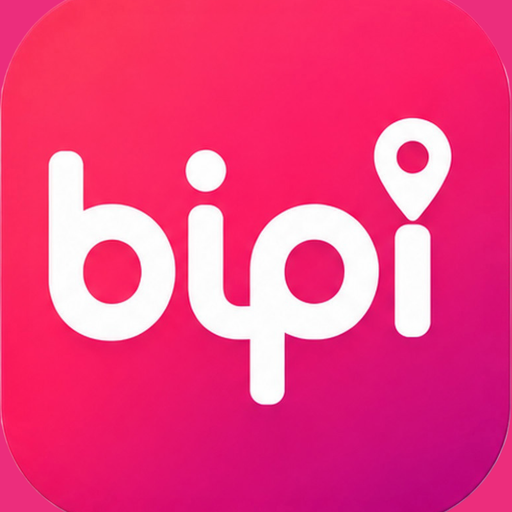
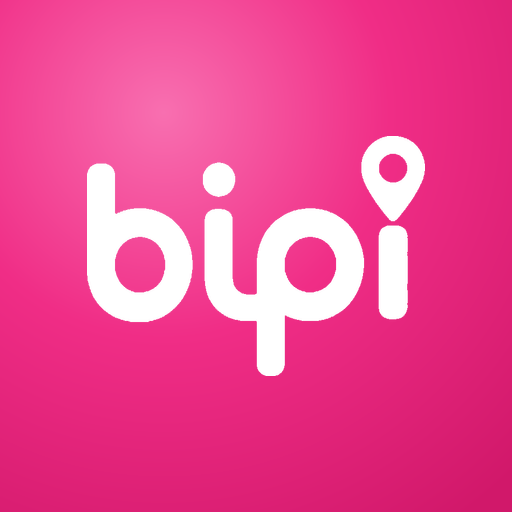
fix(bipi): registro 500 (email duplicado) + email/fecha/sexo obligatorios + icono con margen
- verify-otp: causaba P2002 al crear con un email ya existente. Ahora:
  busca por teléfono → si no, por email (fusiona añadiendo teléfono a la
  cuenta previa) → si no, crea. Maneja P2002 con mensaje claro.
- email, birthDate (AAAA-MM-DD) y gender pasan a OBLIGATORIOS (schema +
  validación + UI web y móvil).
- Icono: el wordmark llegaba al borde y la máscara de Android lo cortaba.
  Extraído el wordmark blanco y recompuesto con margen seguro sobre el
  degradado rosa (icon, adaptive, web 192/512, maskable).

diff --git a/agencia-platform/app/api/bipi/customer/verify-otp/route.ts b/agencia-platform/app/api/bipi/customer/verify-otp/route.ts
@@ -1,10 +1,13 @@
 /**
  * POST /api/bipi/customer/verify-otp
- *   { phone, code, name?, email?, firstBusinessId? }
+ *   { phone, code, name, email, birthDate, gender, firstBusinessId? }
  *
  * Comprueba el código SMS (Twilio Verify). Si es correcto, crea o
- * recupera el cliente (identidad = teléfono verificado) y devuelve la
- * sesión. Este es el alta REAL: sin código válido no se crea cuenta.
+ * recupera el cliente. Identidad principal = teléfono verificado, pero
+ * si el email ya existía (de altas previas) se FUSIONA en esa cuenta en
+ * vez de fallar por email duplicado.
+ *
+ * email, birthDate y gender son OBLIGATORIOS.
  */
 
 import { NextResponse } from "next/server";
@@ -17,15 +20,24 @@ export const dynamic = "force-dynamic";
 const schema = z.object({
   phone: z.string().min(6).max(40),
   code: z.string().min(4).max(10),
-  name: z.string().max(80).optional(),
-  email: z.string().email().optional().or(z.literal("")),
+  name: z.string().min(1).max(80),
+  email: z.string().email(),
+  birthDate: z.string().regex(/^\d{4}-\d{2}-\d{2}$/, "Fecha inválida"),
+  gender: z.enum(["female", "male", "other", "prefer_not"]),
   firstBusinessId: z.string().optional()
 });
+
+function sessionFrom(c: { id: string; name: string | null; totalSaved: number; totalPurchases: number }, reused: boolean, status = 200) {
+  return NextResponse.json(
+    { ok: true, reused, customerId: c.id, name: c.name, totalSaved: c.totalSaved, totalPurchases: c.totalPurchases },
+    { status }
+  );
+}
 
 export async function POST(req: Request) {
   const parsed = schema.safeParse(await req.json().catch(() => null));
   if (!parsed.success) {
-    return NextResponse.json({ error: { code: "validation", message: "Datos inválidos" } }, { status: 400 });
+    return NextResponse.json({ error: { code: "validation", message: parsed.error.issues[0]?.message ?? "Datos inválidos" } }, { status: 400 });
   }
   const d = parsed.data;
   const phone = toE164(d.phone);
@@ -35,59 +47,48 @@ export async function POST(req: Request) {
 
   const check = await checkVerification(phone, d.code);
   if (!check.configured) {
-    return NextResponse.json(
-      { error: { code: "sms_not_configured", message: "La verificación por SMS aún no está activada en el servidor." } },
-      { status: 503 }
-    );
+    return NextResponse.json({ error: { code: "sms_not_configured", message: "La verificación por SMS aún no está activada en el servidor." } }, { status: 503 });
   }
   if (!check.approved) {
-    return NextResponse.json(
-      { error: { code: "bad_code", message: "Código incorrecto o caducado. Pide uno nuevo." } },
-      { status: 401 }
-    );
+    return NextResponse.json({ error: { code: "bad_code", message: "Código incorrecto o caducado. Pide uno nuevo." } }, { status: 401 });
   }
 
-  const email = d.email ? d.email : undefined;
+  const profile = { name: d.name, email: d.email, birthDate: d.birthDate, gender: d.gender };
 
-  // ¿Ya existe por teléfono? -> login. Si no, crear.
-  const existing = await prisma.bipiCustomer.findUnique({ where: { phone } });
-  if (existing) {
-    const updated = await prisma.bipiCustomer.update({
-      where: { id: existing.id },
-      data: {
-        phoneVerified: true,
-        name: d.name ?? existing.name,
-        email: email ?? existing.email ?? undefined
+  // 1) ¿Existe ya por teléfono? -> login/actualización.
+  const byPhone = await prisma.bipiCustomer.findUnique({ where: { phone } });
+  if (byPhone) {
+    try {
+      const updated = await prisma.bipiCustomer.update({ where: { id: byPhone.id }, data: { phoneVerified: true, ...profile } });
+      return sessionFrom(updated, true);
+    } catch (e: any) {
+      if (e?.code === "P2002") {
+        return NextResponse.json({ error: { code: "email_taken", message: "Ese email ya está en uso por otra cuenta." } }, { status: 409 });
       }
-    });
-    return NextResponse.json({
-      ok: true,
-      reused: true,
-      customerId: updated.id,
-      name: updated.name,
-      totalSaved: updated.totalSaved,
-      totalPurchases: updated.totalPurchases
-    });
+      throw e;
+    }
   }
 
-  const customer = await prisma.bipiCustomer.create({
-    data: {
-      phone,
-      phoneVerified: true,
-      name: d.name,
-      email,
-      firstBusinessId: d.firstBusinessId ?? null
+  // 2) ¿Existe por email (alta previa sin teléfono)? -> fusionar: añadir teléfono.
+  const byEmail = await prisma.bipiCustomer.findUnique({ where: { email: d.email } });
+  if (byEmail) {
+    if (byEmail.phone && byEmail.phone !== phone) {
+      return NextResponse.json({ error: { code: "email_other_phone", message: "Ese email ya tiene cuenta con otro teléfono. Usa ese número o cambia de email." } }, { status: 409 });
     }
-  });
-  return NextResponse.json(
-    {
-      ok: true,
-      reused: false,
-      customerId: customer.id,
-      name: customer.name,
-      totalSaved: 0,
-      totalPurchases: 0
-    },
-    { status: 201 }
-  );
+    const merged = await prisma.bipiCustomer.update({ where: { id: byEmail.id }, data: { phone, phoneVerified: true, ...profile } });
+    return sessionFrom(merged, true);
+  }
+
+  // 3) Crear nuevo.
+  try {
+    const created = await prisma.bipiCustomer.create({
+      data: { phone, phoneVerified: true, ...profile, firstBusinessId: d.firstBusinessId ?? null }
+    });
+    return sessionFrom(created, false, 201);
+  } catch (e: any) {
+    if (e?.code === "P2002") {
+      return NextResponse.json({ error: { code: "email_taken", message: "Ese email ya está en uso. Inténtalo con otro." } }, { status: 409 });
+    }
+    throw e;
+  }
 }

diff --git a/apps/bipi-mobile/src/screens/Onboarding.tsx b/apps/bipi-mobile/src/screens/Onboarding.tsx
@@ -77,12 +77,17 @@ export function Onboarding() {
   const [name, setName] = useState("");
   const [phone, setPhone] = useState("");
   const [email, setEmail] = useState("");
+  const [birthDate, setBirthDate] = useState("");
+  const [gender, setGender] = useState("");
   const [code, setCode] = useState("");
   const [busy, setBusy] = useState(false);
 
   async function sendCode() {
     if (!name.trim()) { Alert.alert("Pon tu nombre"); return; }
     if (phone.trim().length < 6) { Alert.alert("Teléfono inválido"); return; }
+    if (!/^[^@\s]+@[^@\s]+\.[^@\s]+$/.test(email.trim())) { Alert.alert("Email inválido"); return; }
+    if (!/^\d{4}-\d{2}-\d{2}$/.test(birthDate.trim())) { Alert.alert("Fecha", "Usa el formato AAAA-MM-DD"); return; }
+    if (!gender) { Alert.alert("Indica tu sexo"); return; }
     setBusy(true);
     try {
       await api.requestOtp(phone.trim());
@@ -97,7 +102,14 @@ export function Onboarding() {
   async function verify() {
     setBusy(true);
     try {
-      const r = await api.verifyOtp(phone.trim(), code.trim(), name.trim(), email.trim() || undefined);
+      const r = await api.verifyOtp({
+        phone: phone.trim(),
+        code: code.trim(),
+        name: name.trim(),
+        email: email.trim(),
+        birthDate: birthDate.trim(),
+        gender
+      });
       await Location.requestForegroundPermissionsAsync();
       await Notifications.requestPermissionsAsync();
       await saveSession({
@@ -195,13 +207,44 @@ export function Onboarding() {
           />
           <TextInput
             style={styles.input}
-            placeholder="Email (opcional)"
+            placeholder="Email"
             placeholderTextColor={colors.grayLight}
             value={email}
             onChangeText={setEmail}
             keyboardType="email-address"
             autoCapitalize="none"
           />
+          <TextInput
+            style={styles.input}
+            placeholder="Fecha de nacimiento (AAAA-MM-DD)"
+            placeholderTextColor={colors.grayLight}
+            value={birthDate}
+            onChangeText={(t) => setBirthDate(t.replace(/[^0-9-]/g, "").slice(0, 10))}
+            keyboardType="numbers-and-punctuation"
+          />
+          <View style={{ flexDirection: "row", flexWrap: "wrap", gap: 8 }}>
+            {[
+              { v: "female", l: "Mujer" },
+              { v: "male", l: "Hombre" },
+              { v: "other", l: "Otro" },
+              { v: "prefer_not", l: "Prefiero no decirlo" }
+            ].map((g) => (
+              <TouchableOpacity
+                key={g.v}
+                onPress={() => setGender(g.v)}
+                style={{
+                  paddingVertical: 8,
+                  paddingHorizontal: 14,
+                  borderRadius: 999,
+                  borderWidth: 1.5,
+                  borderColor: gender === g.v ? colors.pink : "#E5E7EB",
+                  backgroundColor: gender === g.v ? colors.pink : colors.white
+                }}
+              >
+                <Text style={{ fontSize: 13, fontWeight: "700", color: gender === g.v ? colors.white : colors.black }}>{g.l}</Text>
+              </TouchableOpacity>
+            ))}
+          </View>
           <TouchableOpacity style={[styles.btn, busy && { opacity: 0.5 }]} onPress={sendCode} disabled={busy} activeOpacity={0.9}>
             <Text style={styles.btnText}>{busy ? "Enviando…" : "Enviar código SMS"}</Text>
           </TouchableOpacity>

diff --git a/agencia-platform/app/bipi/app/page.tsx b/agencia-platform/app/bipi/app/page.tsx
@@ -208,6 +208,8 @@ function Signup({ onDone }: { onDone: (c: Customer) => void }) {
   const [name, setName] = useState("");
   const [phone, setPhone] = useState("");
   const [email, setEmail] = useState("");
+  const [birthDate, setBirthDate] = useState("");
+  const [gender, setGender] = useState("");
   const [code, setCode] = useState("");
   const [busy, setBusy] = useState(false);
   const [error, setError] = useState<string | null>(null);
@@ -215,6 +217,9 @@ function Signup({ onDone }: { onDone: (c: Customer) => void }) {
   async function sendCode(e: React.FormEvent) {
     e.preventDefault();
     if (!name.trim()) { setError("Pon tu nombre"); return; }
+    if (!email.trim()) { setError("El email es obligatorio"); return; }
+    if (!birthDate) { setError("Indica tu fecha de nacimiento"); return; }
+    if (!gender) { setError("Indica tu sexo"); return; }
     setBusy(true);
     setError(null);
     try {
@@ -239,7 +244,7 @@ function Signup({ onDone }: { onDone: (c: Customer) => void }) {
       const r = await fetch("/api/bipi/customer/verify-otp", {
         method: "POST",
         headers: { "Content-Type": "application/json" },
-        body: JSON.stringify({ phone, code, name, email })
+        body: JSON.stringify({ phone, code, name, email, birthDate, gender })
       });
       const j = await r.json();
       if (!r.ok) { setError(j?.error?.message ?? `Error ${r.status}`); return; }
@@ -279,11 +284,35 @@ function Signup({ onDone }: { onDone: (c: Customer) => void }) {
           />
           <input
             type="email"
-            placeholder="Email (opcional)"
+            placeholder="Email"
             value={email}
             onChange={(e) => setEmail(e.target.value)}
+            required
             className="bipi-input"
           />
+          <label className="block text-xs font-semibold text-black/55">
+            Fecha de nacimiento
+            <input
+              type="date"
+              value={birthDate}
+              onChange={(e) => setBirthDate(e.target.value)}
+              required
+              max={new Date().toISOString().slice(0, 10)}
+              className="bipi-input mt-1"
+            />
+          </label>
+          <select
+            value={gender}
+            onChange={(e) => setGender(e.target.value)}
+            required
+            className="bipi-input"
+          >
+            <option value="">Sexo…</option>
+            <option value="female">Mujer</option>
+            <option value="male">Hombre</option>
+            <option value="other">Otro</option>
+            <option value="prefer_not">Prefiero no decirlo</option>
+          </select>
           {error && <p className="text-rose-700 text-sm">{error}</p>}
           <button type="submit" disabled={busy} className="bipi-btn w-full">
             {busy ? "Enviando…" : "Enviar código SMS"}

diff --git a/agencia-platform/app/bipi/scan/[businessId]/page.tsx b/agencia-platform/app/bipi/scan/[businessId]/page.tsx
@@ -165,6 +165,8 @@ function SignupForm({
   const [name, setName] = useState("");
   const [phone, setPhone] = useState("");
   const [email, setEmail] = useState("");
+  const [birthDate, setBirthDate] = useState("");
+  const [gender, setGender] = useState("");
   const [code, setCode] = useState("");
   const [busy, setBusy] = useState(false);
   const [error, setError] = useState<string | null>(null);
@@ -172,6 +174,9 @@ function SignupForm({
   async function sendCode(e: React.FormEvent) {
     e.preventDefault();
     if (!name.trim()) { setError("Pon tu nombre"); return; }
+    if (!email.trim()) { setError("El email es obligatorio"); return; }
+    if (!birthDate) { setError("Indica tu fecha de nacimiento"); return; }
+    if (!gender) { setError("Indica tu sexo"); return; }
     setBusy(true);
     setError(null);
     try {
@@ -196,7 +201,7 @@ function SignupForm({
       const r = await fetch("/api/bipi/customer/verify-otp", {
         method: "POST",
         headers: { "Content-Type": "application/json" },
-        body: JSON.stringify({ phone, code, name, email, firstBusinessId: businessId })
+        body: JSON.stringify({ phone, code, name, email, birthDate, gender, firstBusinessId: businessId })
       });
       const j = await r.json();
       if (!r.ok) { setError(j?.error?.message ?? `Error ${r.status}`); return; }
@@ -234,11 +239,30 @@ function SignupForm({
           />
           <input
             type="email"
-            placeholder="Email (opcional)"
+            placeholder="Email"
             value={email}
             onChange={(e) => setEmail(e.target.value)}
+            required
             className="bipi-input"
           />
+          <label className="block text-xs font-semibold text-black/55">
+            Fecha de nacimiento
+            <input
+              type="date"
+              value={birthDate}
+              onChange={(e) => setBirthDate(e.target.value)}
+              required
+              max={new Date().toISOString().slice(0, 10)}
+              className="bipi-input mt-1"
+            />
+          </label>
+          <select value={gender} onChange={(e) => setGender(e.target.value)} required className="bipi-input">
+            <option value="">Sexo…</option>
+            <option value="female">Mujer</option>
+            <option value="male">Hombre</option>
+            <option value="other">Otro</option>
+            <option value="prefer_not">Prefiero no decirlo</option>
+          </select>
           {error && <p className="text-rose-700 text-sm">{error}</p>}
           <button type="submit" disabled={busy} className="bipi-btn w-full">
             {busy ? "Enviando…" : "Enviar código SMS"}

diff --git a/apps/bipi-mobile/src/lib/api.ts b/apps/bipi-mobile/src/lib/api.ts
@@ -28,10 +28,18 @@ export const api = {
       method: "POST",
       body: JSON.stringify({ phone })
     }),
-  verifyOtp: (phone: string, code: string, name: string, email?: string, firstBusinessId?: string) =>
+  verifyOtp: (args: {
+    phone: string;
+    code: string;
+    name: string;
+    email: string;
+    birthDate: string;
+    gender: string;
+    firstBusinessId?: string;
+  }) =>
     call("/api/bipi/customer/verify-otp", {
       method: "POST",
-      body: JSON.stringify({ phone, code, name, email, firstBusinessId })
+      body: JSON.stringify(args)
     }),
   offers: (customerId: string, lat?: number, lng?: number) => {
     const url = new URL(`${API_BASE}/api/bipi/offers`);
